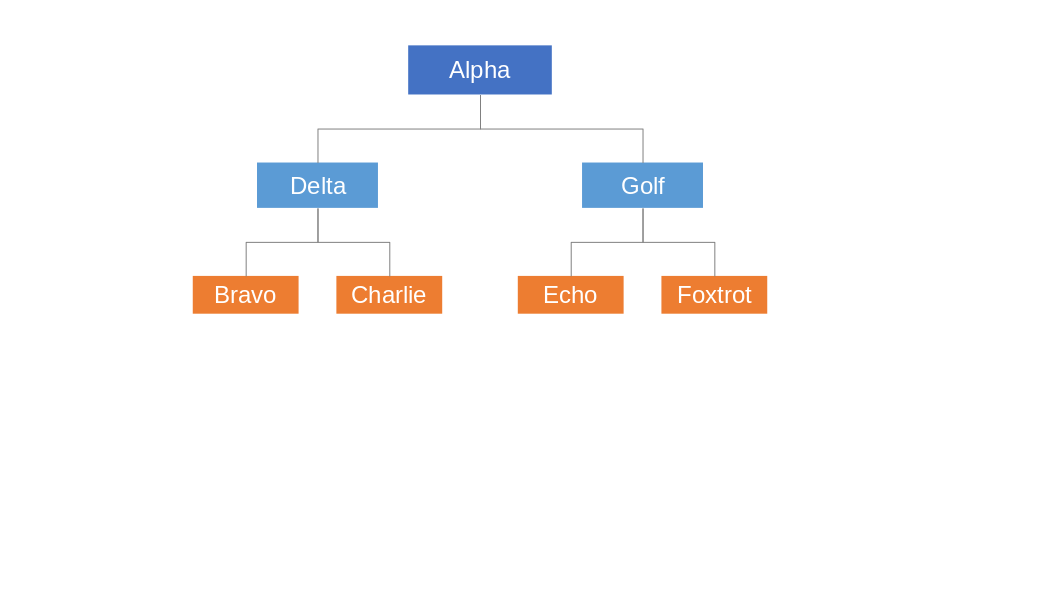
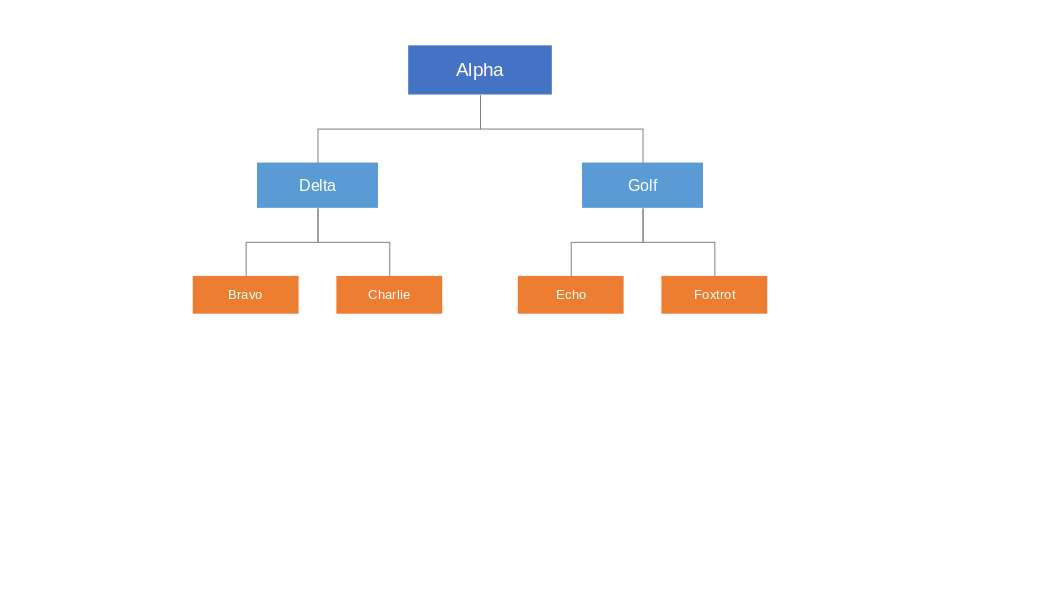
Phase 6: process-flow arrow heads + font size scaling by level
- Edge: add arrowEnd boolean; full 6-arg constructor
- ProcessFlowLayout: step→step edges use arrowEnd=true
- SlideRenderer: set LineEndName/LineEndWidth for arrowEnd edges;
  pass fontSize to applyStyle so CharHeight is applied to every shape
- DefaultPalette: fontSize(level) → 14/11/9 pt
- ProcessFlowLayoutTest: stepEdgesHaveArrowAtEnd assertion added
- screenshot_probe: arrow_end param on add_connector; font sizes applied
  per level in all four diagram drawing functions
- Screenshots regenerated

diff --git a/uno-tests/probes/screenshot_probe.py b/uno-tests/probes/screenshot_probe.py
@@ -69,6 +69,13 @@ def text_color(s, color=0xFFFFFF):
         pass
 
 
+def font_size(s, pts):
+    try:
+        s.setPropertyValue("CharHeight", float(pts))
+    except Exception:
+        pass
+
+
 def add_rect(doc, page, x, y, w, h, label, color=GREEN):
     s = doc.createInstance("com.sun.star.drawing.RectangleShape")
     page.add(s)
@@ -132,7 +139,7 @@ def add_chevron_shape(doc, page, x, y, w, h, kind, label, color=BLUE):
     return s
 
 
-def add_connector(doc, page, start_shape, end_shape, straight=False):
+def add_connector(doc, page, start_shape, end_shape, straight=False, arrow_end=False):
     c = doc.createInstance("com.sun.star.drawing.ConnectorShape")
     page.add(c)
     c.setPropertyValue("StartShape", start_shape)
@@ -143,6 +150,9 @@ def add_connector(doc, page, start_shape, end_shape, straight=False):
     if straight:
         c.setPropertyValue("EdgeKind",
             uno.Enum("com.sun.star.drawing.ConnectorType", "LINE"))
+    if arrow_end:
+        c.setPropertyValue("LineEndName", "Arrow")
+        c.setPropertyValue("LineEndWidth", 300)
     return c
 
 
@@ -185,12 +195,14 @@ def draw_hub_and_spoke(doc, page):
 
     hub = add_ellipse(doc, page, CX - HUB_D//2, CY - HUB_D//2, HUB_D, HUB_D,
                       "Alpha", BLUE)
+    font_size(hub, 14)
     spokes_labels = ["Bravo", "Charlie", "Delta", "Echo", "Foxtrot"]
     for i, label in enumerate(spokes_labels):
         angle = math.radians(-90 + i * 360 / len(spokes_labels))
         sx = int(CX + RADIUS * math.cos(angle)) - SPOKE_D // 2
         sy = int(CY + RADIUS * math.sin(angle)) - SPOKE_D // 2
         spoke = add_ellipse(doc, page, sx, sy, SPOKE_D, SPOKE_D, label, BLUE2)
+        font_size(spoke, 11)
         add_connector(doc, page, hub, spoke, straight=True)
 
 
@@ -205,10 +217,12 @@ def draw_process_flow(doc, page):
     nodes = []
     for i, (label, color) in enumerate(zip(labels, colors)):
         x = start_x + i * (W + GAP)
-        nodes.append(add_rect(doc, page, x, Y, W, H, label, color))
+        s = add_rect(doc, page, x, Y, W, H, label, color)
+        font_size(s, 14)
+        nodes.append(s)
 
     for i in range(len(nodes) - 1):
-        c = add_connector(doc, page, nodes[i], nodes[i + 1])
+        c = add_connector(doc, page, nodes[i], nodes[i + 1], arrow_end=True)
         c.setPropertyValue("StartGluePointIndex", 1)   # right
         c.setPropertyValue("EndGluePointIndex",   3)   # left
 
@@ -220,6 +234,7 @@ def draw_hierarchy(doc, page):
     CX = 25400 // 2
 
     root = add_rect(doc, page, CX - RW//2, 1200, RW, RH, "Alpha", BLUE)
+    font_size(root, 14)
 
     children = [("Delta", BLUE2), ("Golf", BLUE2)]
     # Space children wide enough to hold two grandchildren each
@@ -233,6 +248,7 @@ def draw_hierarchy(doc, page):
         group_start = CX - child_total // 2 + i * (child_span + child_gap)
         cx = group_start + child_span // 2 - CW // 2
         cs = add_rect(doc, page, cx, child_y, CW, CH, label, color)
+        font_size(cs, 12)
         child_shapes.append((group_start, child_span, cs))
         add_connector(doc, page, root, cs)
 
@@ -244,6 +260,7 @@ def draw_hierarchy(doc, page):
         for j, gl in enumerate(glabels):
             gx = g_start + j * (GW + GAP_X)
             gs = add_rect(doc, page, gx, grand_y, GW, GH, gl, ORANGE)
+            font_size(gs, 10)
             add_connector(doc, page, cs, gs)
 
 

diff --git a/src/main/java/org/libreimpress/smartart/layout/Edge.java b/src/main/java/org/libreimpress/smartart/layout/Edge.java
@@ -14,22 +14,29 @@ public final class Edge {
     private final int startGlue;
     private final int endGlue;
     private final boolean straight;
+    private final boolean arrowEnd;
 
-    /** Auto-routed elbowed connector (glue points chosen by LibreOffice). */
+    /** Auto-routed elbowed connector, no arrowhead. */
     public Edge(int parent, int child) {
-        this(parent, child, -1, -1, false);
+        this(parent, child, -1, -1, false, false);
     }
 
     public Edge(int parent, int child, int startGlue, int endGlue) {
-        this(parent, child, startGlue, endGlue, false);
+        this(parent, child, startGlue, endGlue, false, false);
     }
 
     public Edge(int parent, int child, int startGlue, int endGlue, boolean straight) {
+        this(parent, child, startGlue, endGlue, straight, false);
+    }
+
+    public Edge(int parent, int child, int startGlue, int endGlue,
+                boolean straight, boolean arrowEnd) {
         this.parent = parent;
         this.child = child;
         this.startGlue = startGlue;
         this.endGlue = endGlue;
         this.straight = straight;
+        this.arrowEnd = arrowEnd;
     }
 
     public int getParent() {
@@ -53,5 +60,10 @@ public final class Edge {
     /** True when the connector should be a straight LINE rather than elbowed. */
     public boolean isStraight() {
         return straight;
+    }
+
+    /** True when an arrowhead should be drawn at the child end of the connector. */
+    public boolean hasArrowEnd() {
+        return arrowEnd;
     }
 }

diff --git a/src/main/java/org/libreimpress/smartart/rendering/SlideRenderer.java b/src/main/java/org/libreimpress/smartart/rendering/SlideRenderer.java
@@ -109,11 +109,13 @@ public class SlideRenderer {
             if (s.getKind() == ShapeKind.CHEVRON || s.getKind() == ShapeKind.PENTAGON) {
                 applyChevronGeometry(shape, s.getKind());
                 applyStyle(shape, DefaultPalette.chevronFill(chevronSeq++),
-                        DefaultPalette.TEXT_WHITE);
+                        DefaultPalette.TEXT_WHITE,
+                        DefaultPalette.fontSize(s.getLevel()));
             } else {
                 applyStyle(shape,
                         DefaultPalette.fill(s.getKind(), s.getLevel()),
-                        DefaultPalette.TEXT_WHITE);
+                        DefaultPalette.TEXT_WHITE,
+                        DefaultPalette.fontSize(s.getLevel()));
             }
             XText xText = UnoRuntime.queryInterface(XText.class, shape);
             if (xText != null) {
@@ -141,20 +143,25 @@ public class SlideRenderer {
                 props.setPropertyValue("EdgeKind",
                         com.sun.star.drawing.ConnectorType.LINE);
             }
+            if (edge.hasArrowEnd()) {
+                props.setPropertyValue("LineEndName", "Arrow");
+                props.setPropertyValue("LineEndWidth", Integer.valueOf(300));
+            }
             created.add(xConnector);
         }
 
         groupShapes(page, created);
     }
 
-    /** Applies solid fill colour and white text to a shape. */
-    private static void applyStyle(Object shape, int fillColor, int textColor)
-            throws Exception {
+    /** Applies solid fill, text colour, and font size to a shape. */
+    private static void applyStyle(Object shape, int fillColor, int textColor,
+                                   float fontSize) throws Exception {
         XPropertySet props = UnoRuntime.queryInterface(XPropertySet.class, shape);
         props.setPropertyValue("FillStyle",
                 com.sun.star.drawing.FillStyle.SOLID);
         props.setPropertyValue("FillColor", Integer.valueOf(fillColor));
         props.setPropertyValue("CharColor", Integer.valueOf(textColor));
+        props.setPropertyValue("CharHeight", Float.valueOf(fontSize));
         props.setPropertyValue("LineStyle",
                 com.sun.star.drawing.LineStyle.NONE);
     }

diff --git a/src/main/java/org/libreimpress/smartart/rendering/DefaultPalette.java b/src/main/java/org/libreimpress/smartart/rendering/DefaultPalette.java
@@ -34,6 +34,15 @@ public final class DefaultPalette {
         return CHEVRON_BLUES[sequenceIndex % CHEVRON_BLUES.length];
     }
 
+    /** Font size in points, decreasing by level for visual hierarchy. */
+    public static float fontSize(int level) {
+        switch (level) {
+            case 1:  return 14f;
+            case 2:  return 11f;
+            default: return 9f;
+        }
+    }
+
     /** Fill colour for a non-chevron shape, chosen by kind and level. */
     public static int fill(ShapeKind kind, int level) {
         if (kind == ShapeKind.ELLIPSE) {

diff --git a/src/test/java/org/libreimpress/smartart/layout/ProcessFlowLayoutTest.java b/src/test/java/org/libreimpress/smartart/layout/ProcessFlowLayoutTest.java
@@ -1,6 +1,7 @@
 package org.libreimpress.smartart.layout;
 
 import static org.junit.Assert.assertEquals;
+import static org.junit.Assert.assertTrue;
 
 import org.junit.Test;
 import org.libreimpress.smartart.models.DiagramNode;
@@ -84,6 +85,14 @@ public class ProcessFlowLayoutTest {
         for (Edge e : layout.getEdges()) {
             assertEquals("start glue should be right-side (1)", 1, e.getStartGlue());
             assertEquals("end glue should be left-side (3)", 3, e.getEndGlue());
+        }
+    }
+
+    @Test
+    public void stepEdgesHaveArrowAtEnd() {
+        DiagramLayout layout = ProcessFlowLayout.layout(root("A", "B", "C"));
+        for (Edge e : layout.getEdges()) {
+            assertTrue("step connectors should have an arrowhead", e.hasArrowEnd());
         }
     }
 

diff --git a/src/main/java/org/libreimpress/smartart/layout/ProcessFlowLayout.java b/src/main/java/org/libreimpress/smartart/layout/ProcessFlowLayout.java
@@ -60,9 +60,9 @@ public final class ProcessFlowLayout {
                     new LaidOutShape(steps.get(i).getText(), 1, x, y, w1, h1));
         }
 
-        // Connect the steps horizontally.
+        // Connect the steps horizontally with a right→left arrow.
         for (int i = 0; i < n - 1; i++) {
-            out.addEdge(indices[i], indices[i + 1], 1, 3);
+            out.addEdge(new Edge(indices[i], indices[i + 1], 1, 3, false, true));
         }
 
         return out;